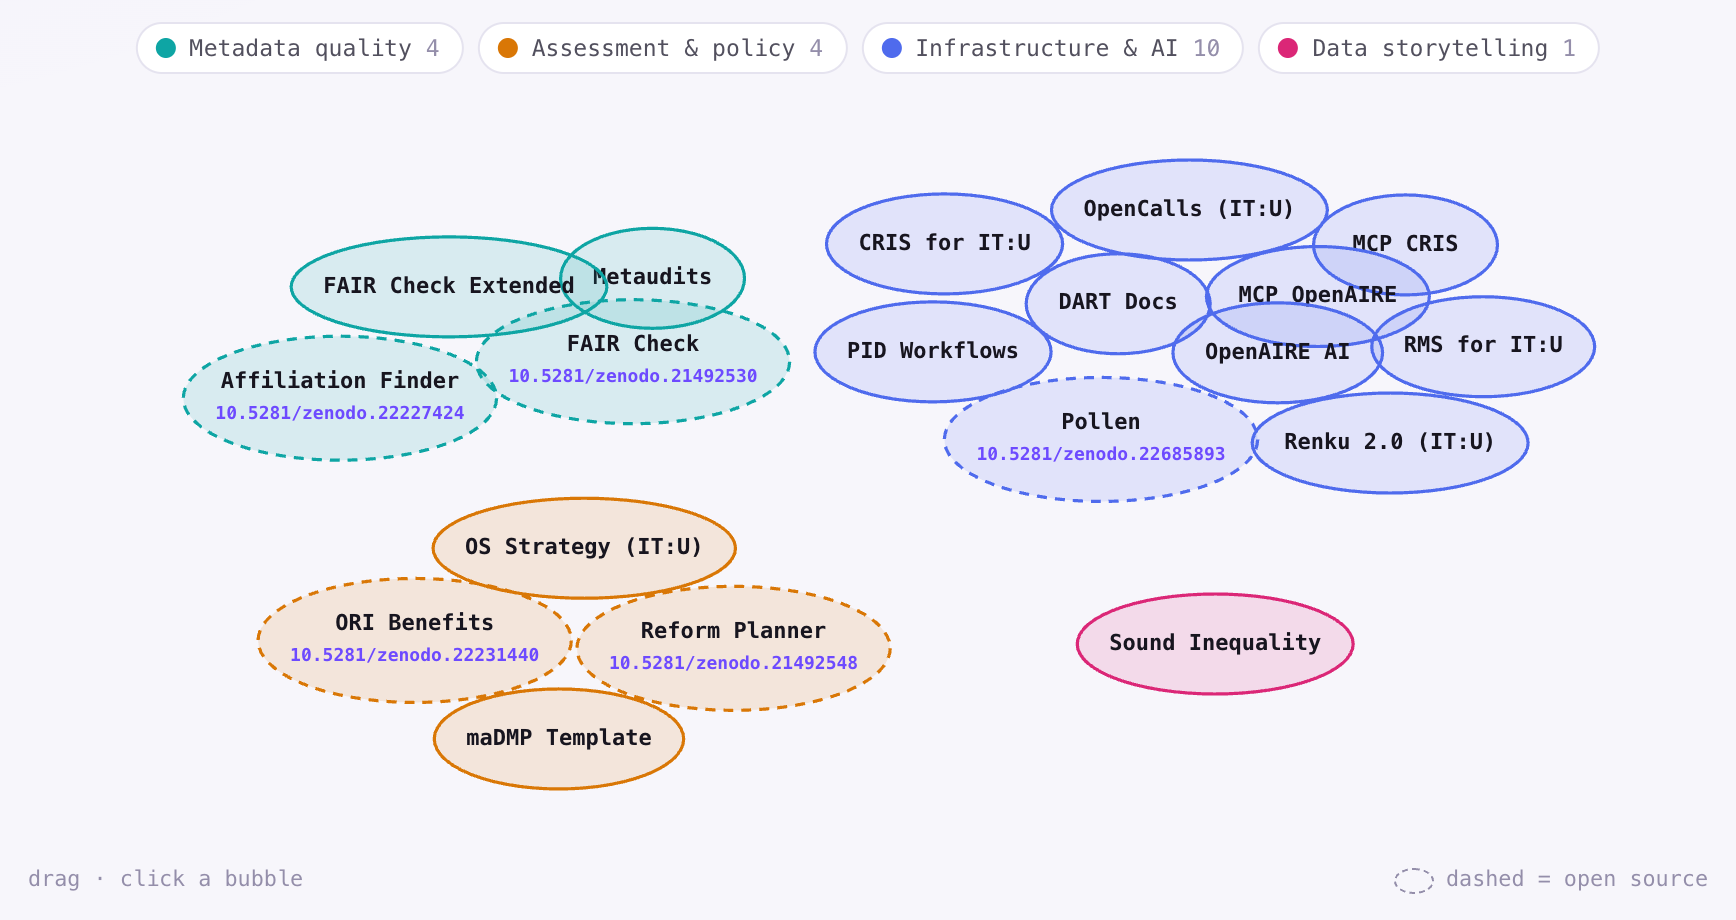
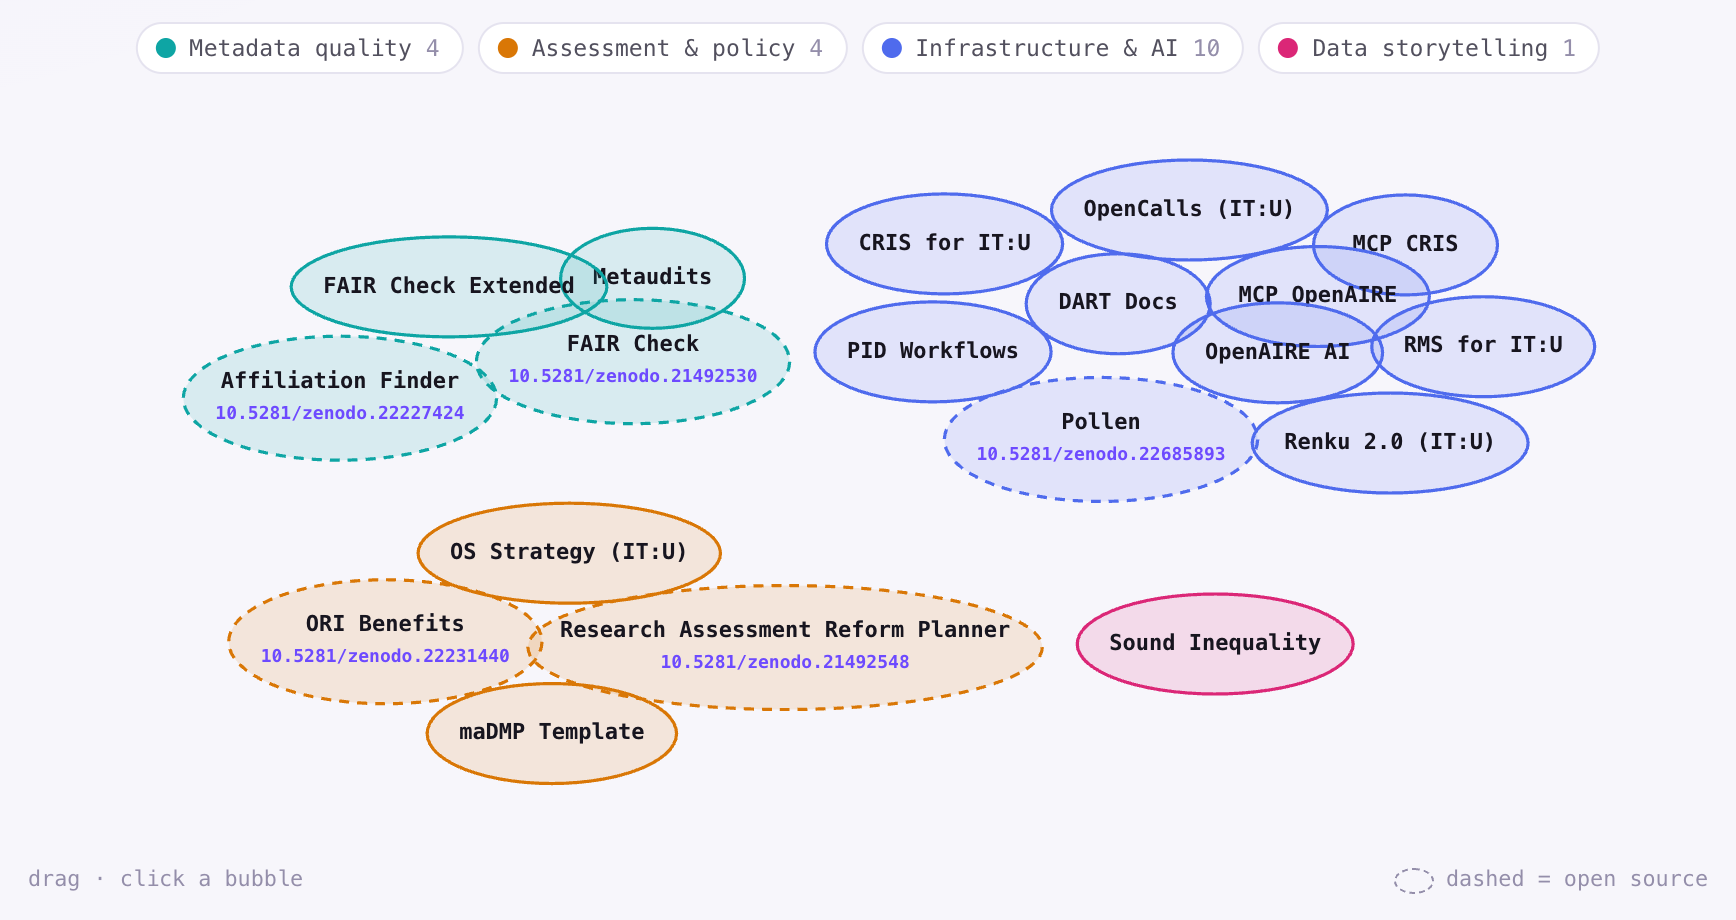
The cloud names Research Assessment Reform Planner in full

Changed region(s): [[0.1244, 0.5174, 0.6221, 0.8826]]

diff --git a/hub.js b/hub.js
@@ -70,7 +70,7 @@ const SHORT=[
      panel. */
   [/^BiblioHelp Open/,"BiblioHelp (open)"],[/^FAIR Metadata Check \(Extended\)/,"FAIR Check Extended"],
   [/^FAIR Metadata Check/,"FAIR Check"],
-  [/^Research Assessment Reform Planner/,"Reform Planner"],[/^Affiliation Finder/,"Affiliation Finder"],
+  [/^Research Assessment Reform Planner/,"Research Assessment Reform Planner"],[/^Affiliation Finder/,"Affiliation Finder"],
   [/^Sound Inequality/,"Sound Inequality"],
   [/BiblioHelp/,"BiblioHelp"],[/^Metaudits/,"Metaudits"],[/^Pollen/,"Pollen"],
   [/MCP CRIS Live: OpenAIRE/,"MCP OpenAIRE"],

diff --git a/index.html b/index.html
@@ -110,4 +110,4 @@ works only as a response header, and GitHub Pages sends none. -->
   </div>
 </div>
 
-<script src="./hub.js?v=5"></script>
+<script src="./hub.js?v=6"></script>

diff --git a/CLAUDE.md b/CLAUDE.md
@@ -27,7 +27,7 @@ vanilla JS. Part of the violet-family design system (see `../CLAUDE.md`).
   `SHORT` entry**, or its oval shows whatever the title is, which for the open twins is the
   repository slug. That is the right name in a citation and the wrong one in a 46px oval,
   and the real name is still one hover away in the tooltip. `tests/hub-ui.test.mjs` fails on
-  a label that is slug-shaped, longer than 20 characters, or a case-only duplicate of
+  a label that is slug-shaped, longer than 34 characters (Research Assessment Reform Planner, kept whole), or a case-only duplicate of
   another (which "BiblioHelp" and "bibliohelp" were).
 - `cv.html`: the academic CV. Same fetch, formal layout, `Print / PDF` via `window.print()`.
 - `build_cv.py`: emits `CV.en.md` / `CV.de.md` / `CV.es.md`.

diff --git a/README.md b/README.md
@@ -18,7 +18,7 @@ Assessment & policy 4, Infrastructure & AI 10, Data storytelling 1. Related proj
 rather than repel, so FAIR Metadata Check (Extended) sits against FAIR Metadata Check. A dashed outline marks an
 open GitHub twin, and a note in the corner says so. Five ovals carry a Zenodo concept DOI
 under the name: FAIR Metadata Check 10.5281/zenodo.21492530, Affiliation Finder
-10.5281/zenodo.22227424, Reform Planner 10.5281/zenodo.21492548, ORI Benefits
+10.5281/zenodo.22227424, Research Assessment Reform Planner 10.5281/zenodo.21492548, ORI Benefits
 10.5281/zenodo.22231440 and Pollen 10.5281/zenodo.22685893.](docs/hub-cloud.png)
 
 ## The three views

diff --git a/CHANGELOG.md b/CHANGELOG.md
@@ -12,6 +12,12 @@ ships in numbered drops.
 
 ## [Unreleased]
 
+### Changed
+
+- **The cloud names Research Assessment Reform Planner in full**, not Reform Planner: the short form
+  was the ambiguity the rename removed. The label limit in `tests/hub-ui.test.mjs` goes from 20 to
+  34 characters to hold it.
+
 ## [1.7.0]: 2026-09-24
 
 ### Renamed
